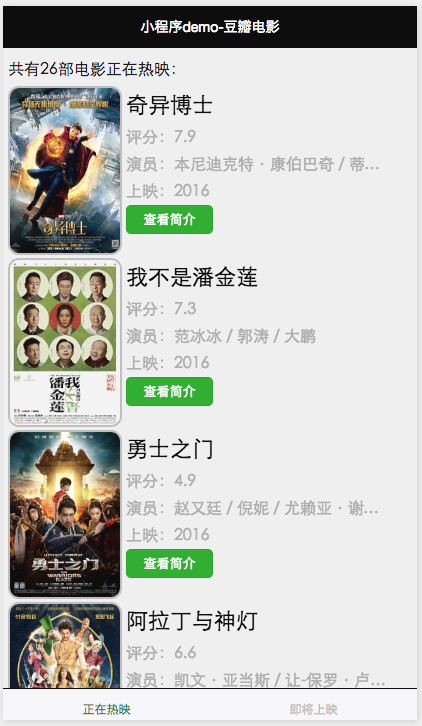
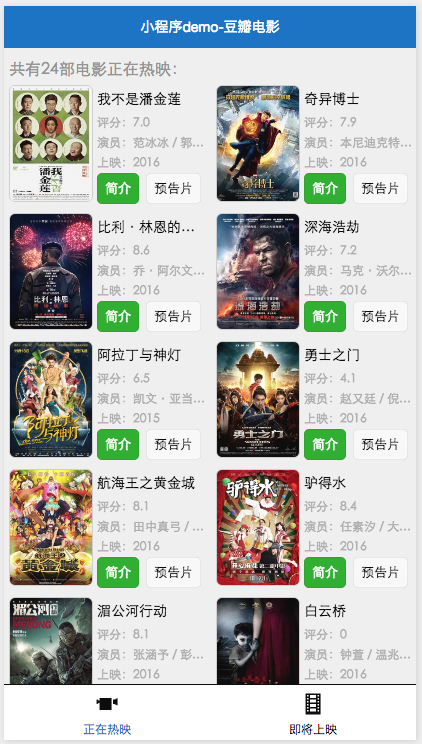
update

diff --git a/utils/request.js b/utils/request.js
@@ -5,6 +5,8 @@ const RE_LTR = /class\=\"thumb[\s\S]*?src\=\"([\s\S]*?)\"[\s\S]*?href\=\"[\s\S]*
 const RE_SMR = /property\=\"v\:summary\"[^>]+?\>([\s\S]+?)\<\/span\>/gm;
 const RE_GLR = /pic\-col5\"([\s\S]+?)\<\/ul\>/gm;
 const RE_IMG = /\<img\s*src=\"([\s\S]+?)\"/g;
+const RE_VDO_PAGE = /\<li\sclass=\"video\"[\s\S]+?\<a\shref\=\"\/movie\/trailer\/(\d+?)\"/mg;
+const RE_VDO = /\<source\ssrc\=\"([\s\S]+?)\"/g;
 
 function get_page(url, onSuccess=NOOP, onFail=NOOP, onComplete=NOOP) {
     wx.request({
@@ -19,29 +21,6 @@ function get_page(url, onSuccess=NOOP, onFail=NOOP, onComplete=NOOP) {
     })
 }
 
-/*
-<li
-    id="26389466"
-    class="list-item hidden"
-    data-title="一句顶一万句"
-    data-score="6.1"
-    data-star="30"
-    data-release="2016"
-    data-duration="110分钟"
-    data-region="中国大陆 香港"
-    data-director="刘雨霖"
-    data-actors="毛孩 / 李倩 / 刘蓓"
-    data-category="nowplaying"
-    data-enough="True"
-    data-showed="True"
-    data-votecount="3578"
-    data-subject="26389466"
->
-    <ul class="">
-        <li class="poster">
-            <a href="https://movie.douban.com/subject/3025375/?from=playing_poster" class=ticket-btn target="_blank" data-psource="poster">
-                <img src="https://img3.doubanio.com/view/movie_poster_cover/mpst/public/p2388501883.jpg" alt="奇异博士" rel="nofollow" class="" />
-*/
 function get_movies(type='nowplaying', callback=NOOP, city='beijing') {
     let url = `http://movie.douban.com/${type}/${city}/`;
     get_page(url, data=>{
@@ -105,6 +84,42 @@ function get_gallary(id, callback=NOOP) {
         }      
     });
 }
+function get_video(id, callback=NOOP) {
+    let url = `https://m.douban.com/movie/subject/${id}`;
+    wx.showToast({
+        icon: 'loading',
+        title: 'loading...'
+    });
+    get_page(url, data=>{
+        try {
+            let vid = RE_VDO_PAGE.exec(data)[1];
+            get_video_helper(vid, callback);
+        } catch(ex) {
+            console.log('err when get_video:', ex);
+        }
+        finally {
+            wx.hideToast();
+        }      
+    });
+}
+function get_video_helper(vid, callback=NOOP) {
+    let url = `https://m.douban.com/movie/trailer/${vid}`;
+    wx.showToast({
+        icon: 'loading',
+        title: 'loading...'
+    });
+    get_page(url, data=>{
+        try {
+            let vurl = RE_VDO.exec(data)[1];
+            callback(vurl);
+        } catch(ex) {
+            console.log('err when get_video(step2):', ex);
+        }
+        finally {
+            wx.hideToast();
+        }      
+    });
+}
 
 module.exports = {
     //列表
@@ -112,5 +127,7 @@ module.exports = {
     //简介
     get_summary,
     //图集
-    get_gallary
+    get_gallary,
+    //预览片
+    get_video
 };

diff --git a/pages/movies/movies.js b/pages/movies/movies.js
@@ -54,7 +54,16 @@ Page({
             wx.previewImage({
                 urls
             });
-            console.log(urls);
+        });
+    },
+    onVideoClick(e) {
+        if (e.timeStamp === this._eventTS) return;
+        this._eventTS = e.timeStamp;
+        req.get_video(e.currentTarget.id.replace('play_', ''), url=>{
+            console.log('video playing...', url);
+            wx.navigateTo({
+                url: `../video/video?v_url=${url}`
+            });
         });
     },
     onPageClick(e) {

diff --git a/pages/video/video.js b/pages/video/video.js
@@ -1,0 +1,8 @@
+Page({
+    data: {
+        v_url: null
+    },
+    onLoad(option) {
+        this.setData({v_url: option.v_url});
+    }
+});
